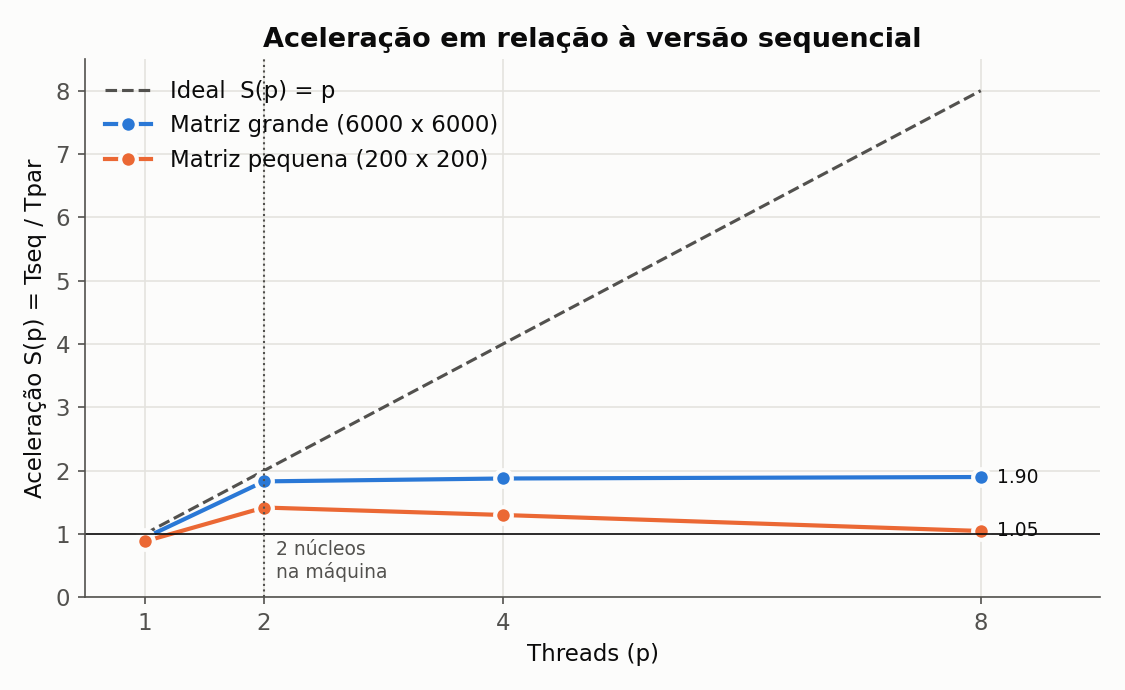
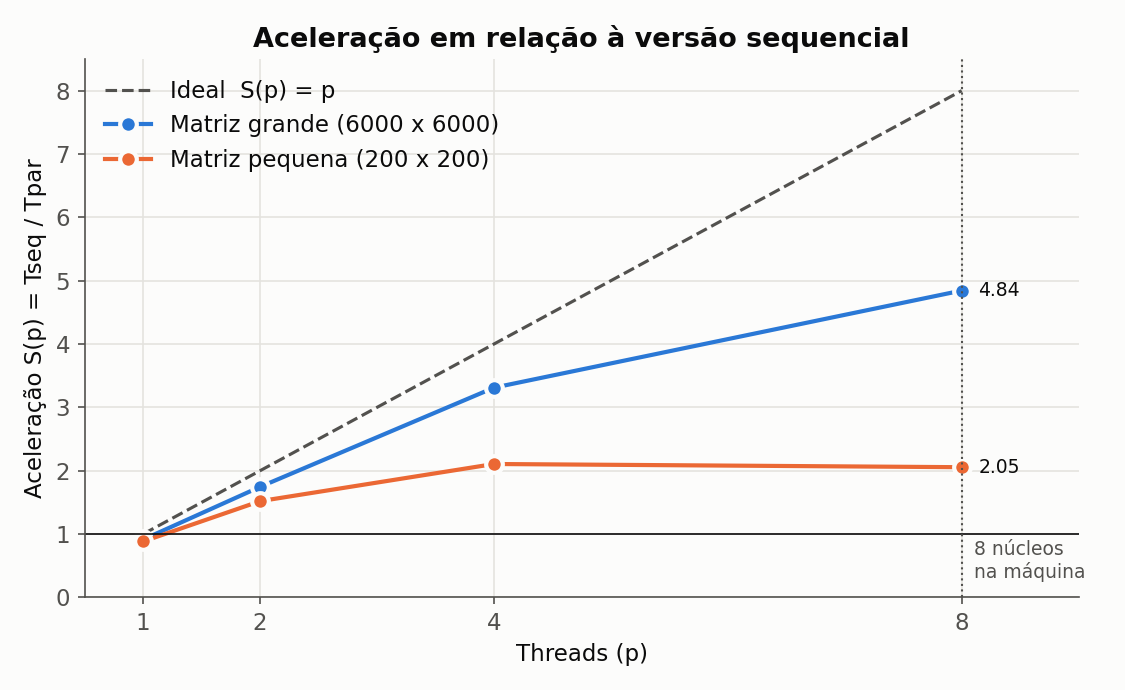
Medicoes no macOS (Apple M2) e relatorio atualizado

diff --git a/RELATORIO_TECNICO.md b/RELATORIO_TECNICO.md
@@ -18,12 +18,12 @@
 | Modalidade | [Individual / dupla] |
 | Turma | [PREENCHER] |
 | Estratégia paralela | Pthreads |
-| Plataforma testada | Linux (x86_64) |
+| Plataforma testada | macOS 26.3 (arm64, Apple M2) e Linux (x86_64) |
 | Commit avaliado | [`PREENCHER HASH_DO_COMMIT`] |
 
 ## Resumo
 
-Este trabalho conta os objetos de uma matriz binária, definidos como componentes conexos de células `1` sob conectividade 8. A versão sequencial percorre a matriz e, a cada célula `1` ainda não visitada, executa um *flood fill* iterativo com pilha explícita, evitando recursão profunda. A versão paralela usa Pthreads: a matriz é dividida em uma grade de blocos, distribuídos às threads por uma fila dinâmica protegida por mutex. Na primeira fase, cada thread rotula os componentes locais do bloco com um rótulo globalmente único (índice linear da semente + 1), sem coordenação. Na segunda fase, as threads examinam as fronteiras inferior e direita de cada bloco, incluindo diagonais, e registram as equivalências em uma estrutura *union-find* compartilhada, protegida por um segundo mutex. O total é a soma dos objetos locais menos o número de uniões efetivas. As duas versões produziram os resultados esperados nas cinco matrizes obrigatórias, em nove casos adicionais, em oito configurações paralelas e em 500 matrizes aleatórias comparadas com um oráculo independente (scipy). Em uma matriz 6000 × 6000, com 2 threads em máquina de 2 núcleos, a aceleração foi 1,83 (eficiência 0,92).
+Este trabalho conta os objetos de uma matriz binária, definidos como componentes conexos de células `1` sob conectividade 8. A versão sequencial percorre a matriz e, a cada célula `1` ainda não visitada, executa um *flood fill* iterativo com pilha explícita, evitando recursão profunda. A versão paralela usa Pthreads: a matriz é dividida em uma grade de blocos, distribuídos às threads por uma fila dinâmica protegida por mutex. Na primeira fase, cada thread rotula os componentes locais do bloco com um rótulo globalmente único (índice linear da semente + 1), sem coordenação. Na segunda fase, as threads examinam as fronteiras inferior e direita de cada bloco, incluindo diagonais, e registram as equivalências em uma estrutura *union-find* compartilhada, protegida por um segundo mutex. O total é a soma dos objetos locais menos o número de uniões efetivas. As duas versões produziram os resultados esperados nas cinco matrizes obrigatórias, em nove casos adicionais, em oito configurações paralelas e em 500 matrizes aleatórias comparadas com um oráculo independente (scipy). Em uma matriz 6000 × 6000, em um Apple M2 de 8 núcleos, a aceleração foi 1,74 com 2 threads, 3,31 com 4 e 4,84 com 8.
 
 **Palavras-chave:** sistemas operacionais; paralelismo; processos; threads; conectividade 8; flood fill; componentes conexos.
 
@@ -113,20 +113,22 @@ O projeto contém duas implementações funcionalmente equivalentes:
 
 ### 3.1 Hardware e software
 
+Ambiente das medições de desempenho (registrado em [`results/ambiente.txt`](results/ambiente.txt)):
+
 | Item | Especificação |
 |---|---|
-| Processador | Intel Xeon @ 2.10 GHz (máquina virtual) |
-| Núcleos físicos | 2 |
-| Processadores lógicos | 2 (1 thread por núcleo) |
-| Memória RAM | 7,8 GiB |
-| Sistema operacional | Linux 6.18 (Ubuntu 24.04) |
-| Arquitetura | x86_64 |
-| Compilador | gcc 13.3.0 (`cc`) |
+| Processador | Apple M2 (MacBook Air) |
+| Núcleos físicos | 8: 4 de desempenho (P) + 4 de eficiência (E) |
+| Processadores lógicos | 8 |
+| Memória RAM | 8 GiB |
+| Sistema operacional | macOS 26.3 (Darwin 25.3.0) |
+| Arquitetura | arm64 |
+| Compilador | Apple clang 17.0.0 (`cc`) |
 | Padrão da linguagem | C89/C90 |
 | APIs POSIX utilizadas | `pthread_create`, `pthread_join`, `pthread_mutex_init/lock/unlock/destroy`, `clock_gettime(CLOCK_MONOTONIC)` |
 | Flags de compilação | `-std=c89 -Wall -Wextra -pedantic -O2 -pthread` |
 
-> O código evita `pthread_barrier_t`, que não existe no macOS, e usa apenas APIs disponíveis nos dois sistemas. [PREENCHER: se testar também no macOS, registre aqui.]
+O projeto também foi compilado e testado em Linux (Ubuntu 24.04, x86_64, gcc 13.3.0), onde foram executadas as verificações com Valgrind (seção 10.2). O código evita `pthread_barrier_t`, que não existe no macOS, e usa apenas APIs disponíveis nos dois sistemas.
 
 ### 3.2 Compilação
 
@@ -283,7 +285,7 @@ flowchart LR
 
 ### 6.3 Paralelismo efetivo
 
-O cálculo pesado, o flood fill de todas as células, é feito **simultaneamente** pelas threads na fase 1, cada uma em blocos diferentes. As threads não esperam umas pelas outras nessa fase: a única interação é retirar o próximo bloco da fila, o que custa alguns nanossegundos por bloco. A fase 2 também é paralela: a varredura das fronteiras só lê dados e é feita sem trava. Só a aplicação das uniões é serializada, e seu custo é proporcional ao perímetro dos blocos, não à área. A evidência de paralelismo real é a aceleração de 1,83 com 2 threads na matriz grande (seção 9).
+O cálculo pesado, o flood fill de todas as células, é feito **simultaneamente** pelas threads na fase 1, cada uma em blocos diferentes. As threads não esperam umas pelas outras nessa fase: a única interação é retirar o próximo bloco da fila, o que custa alguns nanossegundos por bloco. A fase 2 também é paralela: a varredura das fronteiras só lê dados e é feita sem trava. Só a aplicação das uniões é serializada, e seu custo é proporcional ao perímetro dos blocos, não à área. A evidência de paralelismo real é a aceleração de 3,31 com 4 threads e de 4,84 com 8 threads na matriz grande (seção 9).
 
 | Etapa | Sequencial ou paralela? | Unidade responsável | Motivo |
 |---|---|---|---|
@@ -448,7 +450,7 @@ A **ordem** das uniões varia entre execuções (depende de qual thread chega pr
 | Repetições por configuração | 10, **intercaladas** (em cada rodada todas as configurações rodam uma vez), para que o ruído momentâneo da máquina afete todas de forma parecida |
 | Medida representativa | Mediana |
 | Critério para dispersão | Intervalo interquartil (IQR = Q3 − Q1); mínimo e máximo em `resumo.csv` |
-| Carga do sistema durante os testes | Máquina virtual dedicada, sem outras cargas do usuário. A VM apresentou ruído de até ±15 %, o que justificou a mediana. |
+| Carga do sistema durante os testes | Notebook ligado à tomada, com os demais aplicativos fechados. A dispersão foi baixa (IQR abaixo de 2 % da mediana na maioria das configurações). |
 | Flags de otimização | `-O2` |
 
 As medições brutas estão disponíveis em [`results/medicoes.csv`](results/medicoes.csv), e o resumo em [`results/resumo.csv`](results/resumo.csv). Para reproduzir: `make desempenho && make graficos`.
@@ -473,33 +475,43 @@ $$
 
 | Versão | Trabalhadores (`p`) | Tempo representativo (ms) | Dispersão - IQR (ms) | Aceleração `S(p)` | Eficiência `E(p)` | Resultado correto? |
 |---|---:|---:|---:|---:|---:|---|
-| Sequencial | 1 | 1365,3 | 25,4 | 1,00 | 1,00 | Sim |
-| Paralela | 1 | 1457,5 | 108,0 | 0,94 | 0,94 | Sim |
-| Paralela | 2 | 745,8 | 49,7 | **1,83** | **0,92** | Sim |
-| Paralela | 4 | 727,7 | 18,6 | 1,88 | 0,47 | Sim |
-| Paralela | 8 | 718,7 | 19,9 | 1,90 | 0,24 | Sim |
+| Sequencial | 1 | 728,4 | 3,1 | 1,00 | 1,00 | Sim |
+| Paralela | 1 | 797,5 | 2,6 | 0,91 | 0,91 | Sim |
+| Paralela | 2 | 417,4 | 4,6 | 1,74 | 0,87 | Sim |
+| Paralela | 4 | 220,0 | 1,4 | **3,31** | **0,83** | Sim |
+| Paralela | 8 | 150,4 | 7,3 | **4,84** | 0,61 | Sim |
 
 **Matriz pequena (200 × 200):**
 
 | Versão | Trabalhadores (`p`) | Tempo representativo (ms) | Dispersão - IQR (ms) | Aceleração `S(p)` | Eficiência `E(p)` | Resultado correto? |
 |---|---:|---:|---:|---:|---:|---|
-| Sequencial | 1 | 1,611 | 0,279 | 1,00 | 1,00 | Sim |
-| Paralela | 1 | 1,826 | 0,240 | 0,88 | 0,88 | Sim |
-| Paralela | 2 | 1,136 | 0,143 | 1,42 | 0,71 | Sim |
-| Paralela | 4 | 1,239 | 0,082 | 1,30 | 0,33 | Sim |
-| Paralela | 8 | 1,538 | 0,154 | 1,05 | 0,13 | Sim |
+| Sequencial | 1 | 0,900 | 0,016 | 1,00 | 1,00 | Sim |
+| Paralela | 1 | 1,020 | 0,028 | 0,88 | 0,88 | Sim |
+| Paralela | 2 | 0,593 | 0,008 | 1,52 | 0,76 | Sim |
+| Paralela | 4 | 0,427 | 0,013 | 2,11 | 0,53 | Sim |
+| Paralela | 8 | 0,438 | 0,040 | 2,05 | 0,26 | Sim |
 
 ### 9.4 Dados brutos das repetições
 
-Matriz grande (ms). As repetições da matriz pequena estão em `medicoes.csv`.
+**Matriz grande (6000 × 6000), tempos em ms:**
 
 | Versão | p | R1 | R2 | R3 | R4 | R5 | R6 | R7 | R8 | R9 | R10 | Mediana |
 |---|---:|---:|---:|---:|---:|---:|---:|---:|---:|---:|---:|---:|
-| Sequencial | 1 | 1369,2 | 1369,3 | 1445,0 | 1339,7 | 1378,3 | 1336,5 | 1355,6 | 1438,0 | 1349,0 | 1361,4 | 1365,3 |
-| Paralela | 1 | 1552,0 | 1431,4 | 1543,7 | 1470,9 | 1398,3 | 1489,0 | 1419,0 | 1657,1 | 1444,2 | 1392,5 | 1457,5 |
-| Paralela | 2 | 749,2 | 728,7 | 778,7 | 742,4 | 760,7 | 723,1 | 718,1 | 818,2 | 713,5 | 842,9 | 745,8 |
-| Paralela | 4 | 741,5 | 748,0 | 759,6 | 724,9 | 741,3 | 730,5 | 723,8 | 711,0 | 722,5 | 717,4 | 727,7 |
-| Paralela | 8 | 710,6 | 743,8 | 722,6 | 718,8 | 714,7 | 718,6 | 714,0 | 688,3 | 738,3 | 737,9 | 718,7 |
+| Sequencial | 1 | 724,1 | 728,5 | 727,1 | 725,1 | 725,6 | 728,4 | 730,8 | 728,7 | 729,2 | 730,8 | 728,4 |
+| Paralela | 1 | 790,5 | 797,8 | 804,2 | 797,5 | 797,4 | 805,9 | 794,6 | 792,5 | 797,5 | 797,8 | 797,5 |
+| Paralela | 2 | 417,8 | 412,6 | 422,6 | 417,1 | 421,4 | 415,3 | 415,4 | 438,9 | 417,4 | 417,4 | 417,4 |
+| Paralela | 4 | 221,2 | 219,6 | 220,6 | 224,3 | 229,0 | 220,2 | 219,6 | 218,5 | 219,8 | 219,8 | 220,0 |
+| Paralela | 8 | 153,6 | 173,2 | 151,8 | 154,0 | 145,1 | 147,5 | 161,7 | 144,8 | 149,0 | 146,2 | 150,4 |
+
+**Matriz pequena (200 × 200), tempos em ms:**
+
+| Versão | p | R1 | R2 | R3 | R4 | R5 | R6 | R7 | R8 | R9 | R10 | Mediana |
+|---|---:|---:|---:|---:|---:|---:|---:|---:|---:|---:|---:|---:|
+| Sequencial | 1 | 0,854 | 0,896 | 0,892 | 0,899 | 0,907 | 0,901 | 0,888 | 0,909 | 0,909 | 0,915 | 0,900 |
+| Paralela | 1 | 0,984 | 1,024 | 1,011 | 1,036 | 1,042 | 1,103 | 1,011 | 1,016 | 1,016 | 1,045 | 1,020 |
+| Paralela | 2 | 0,591 | 0,575 | 0,583 | 0,600 | 0,593 | 0,594 | 0,639 | 0,584 | 0,593 | 0,592 | 0,593 |
+| Paralela | 4 | 0,426 | 0,411 | 0,432 | 0,413 | 0,457 | 0,440 | 0,471 | 0,427 | 0,425 | 0,428 | 0,427 |
+| Paralela | 8 | 0,381 | 0,418 | 0,416 | 0,470 | 0,412 | 0,423 | 0,458 | 0,453 | 0,453 | 0,493 | 0,438 |
 
 ### 9.5 Gráfico de tempo de execução
 
@@ -511,7 +523,7 @@ Matriz grande (ms). As repetições da matriz pequena estão em `medicoes.csv`.
 
 ![Aceleração por quantidade de trabalhadores](results/grafico-aceleracao.png)
 
-**Figura 2 -** Aceleração observada em função da quantidade de trabalhadores. A linha ideal corresponde a `S(p) = p`; a linha pontilhada marca os 2 núcleos da máquina. Fonte: elaborado pelo grupo.
+**Figura 2 -** Aceleração observada em função da quantidade de trabalhadores. A linha ideal corresponde a `S(p) = p`; a linha pontilhada marca os 8 núcleos da máquina (4 de desempenho e 4 de eficiência). Fonte: elaborado pelo grupo.
 
 ### 9.7 Gráfico de eficiência
 
@@ -521,9 +533,9 @@ Matriz grande (ms). As repetições da matriz pequena estão em `medicoes.csv`.
 
 ### 9.8 Análise dos resultados
 
-**Ganho em relação à versão sequencial.** Na matriz grande, 2 threads reduziram o tempo de 1365 ms para 746 ms (S = 1,83; E = 0,92), perto do ideal para a máquina de 2 núcleos. Isso confirma que a fase 1, que domina o custo, é executada de fato em paralelo.
+**Ganho em relação à versão sequencial.** Na matriz grande, o tempo caiu de 728 ms (sequencial) para 417 ms com 2 threads, 220 ms com 4 e 150 ms com 8. As acelerações foram 1,74, 3,31 e 4,84. O tempo diminui a cada aumento de threads, o que confirma que a fase 1, que domina o custo, é executada de fato em paralelo.
 
-**Por que a versão paralela com 1 thread é 7 % mais lenta que a sequencial (S = 0,94).** Ela faz mais trabalho que a sequencial:
+**Por que a versão paralela com 1 thread é 9 % mais lenta que a sequencial (S = 0,91).** Ela faz mais trabalho que a sequencial:
 
 - usa `int rotulo[]` (4 bytes/célula, 144 MB) em vez de `unsigned char visitado[]` (1 byte/célula, 36 MB), o que quadruplica o tráfego de memória;
 - aloca `pai[]` (mais 144 MB), cujas páginas causam *page faults* na primeira escrita;
@@ -532,15 +544,15 @@ Matriz grande (ms). As repetições da matriz pequena estão em `medicoes.csv`.
 
 Essa sobrecarga é o custo de tornar o problema decomponível. A comparação com a versão sequencial otimizada é a mais honesta, e é a usada no cálculo de `S(p)`.
 
-**Por que S(2) = 1,83 e não 2.** Além da sobrecarga acima, a alocação e o preenchimento de 288 MB geram *page faults* tratados pelo kernel, que serializa parte desse trabalho. Os dois núcleos também disputam a mesma largura de banda de memória, e a fase 2 contém uma região crítica serializada. O IQR da configuração com 1 thread (108 ms) mostra que a própria VM varia bastante.
+**Escalabilidade até 4 threads.** A eficiência cai pouco: 0,91 com 1 thread, 0,87 com 2 e 0,83 com 4. Quase toda a distância para o ideal já está presente com 1 thread, ou seja, vem da sobrecarga fixa do algoritmo paralelo, e não de contenção entre threads. Comparando a versão paralela consigo mesma, de 1 para 4 threads o tempo cai 3,62 vezes (797,5 / 220,0), perto de 4. Isso é coerente com o projeto: a fase 1 não usa nenhuma trava nos dados, e a única região crítica frequente é a retirada de um bloco da fila. O que impede o ganho ideal é a parte que não se divide: os *page faults* da alocação de 288 MB, tratados pelo kernel, a disputa dos núcleos pela mesma largura de banda de memória e a região crítica do union-find.
 
-**Efeito da quantidade de threads (4 e 8).** A máquina tem **apenas 2 núcleos**. Com 4 ou 8 threads não há mais hardware para executá-las ao mesmo tempo: o SO as intercala nos mesmos 2 núcleos. Por isso a aceleração estabiliza em ≈ 1,9 e a eficiência cai para 0,47 e 0,24. Isso não é defeito do algoritmo: a eficiência é calculada sobre `p` threads, mas só havia 2 unidades físicas. O tempo não piorou, e chegou até a melhorar levemente (746 → 719 ms), por dois motivos: criar threads é barato, e mais threads significam mais blocos (padrão `2p × 2`), o que melhora o balanceamento dinâmico. [PREENCHER se possível: repetir `make desempenho` em uma máquina com 4+ núcleos para mostrar a escalabilidade além de 2 threads.]
+**Por que S(8) = 4,84 e não 8.** O Apple M2 tem núcleos heterogêneos: 4 de desempenho (P) e 4 de eficiência (E), estes mais lentos. Com 4 threads, o sistema operacional pode manter todas nos núcleos P. Com 8, metade das threads roda em núcleos E, de modo que a capacidade total de cálculo fica bem abaixo de "8 núcleos P". A eficiência de 0,61 reflete essa limitação do hardware, e não uma falha do algoritmo. Ainda assim os núcleos E contribuem: o tempo caiu de 220 ms para 150 ms. Aqui a **fila dinâmica** é importante. Com uma divisão estática (um bloco fixo por thread), o tempo total seria ditado pelas threads nos núcleos lentos. Com a fila e 32 blocos (grade padrão `2p × 2`), os núcleos rápidos simplesmente retiram mais blocos, e o trabalho se ajusta à velocidade de cada núcleo. A configuração com 8 threads também teve a maior dispersão (IQR de 7,3 ms), compatível com a variação de quais threads o sistema coloca em cada tipo de núcleo.
 
-**Matriz pequena.** Com 200 × 200 (40 mil células), a contagem inteira leva ~1,6 ms. Mesmo assim, 2 threads ainda ganham (S = 1,42), mas com 8 threads o ganho quase desaparece (S = 1,05). Cada execução com 8 threads cria e espera 16 threads (2 fases × 8), cada uma custando dezenas de microssegundos, e esse custo fixo passa a competir com um cálculo muito curto. Como alerta o enunciado, matrizes pequenas servem para validar correção, não para medir ganho.
+**Matriz pequena.** Com 200 × 200 (40 mil células), a contagem sequencial leva 0,9 ms. A versão paralela ainda ganha com 2 threads (S = 1,52) e com 4 (S = 2,11), mas com 8 não há ganho adicional (S = 2,05; 0,438 ms contra 0,427 ms). Cada execução com 8 threads cria e espera 16 threads (2 fases × 8), e esse custo fixo passa a competir com um cálculo de menos de meio milissegundo. A eficiência cai para 0,26. Como alerta o enunciado, matrizes pequenas servem para validar correção, não para medir ganho.
 
-**Custo da consolidação.** A fase 2 trabalha só sobre as fronteiras: com uma grade `BL × BC`, examina cerca de `(BL−1)·C + (BC−1)·L` células, frente às `L·C` da fase 1. Para 6000 × 6000 com 2 threads (grade 4 × 2), são ~24 mil células de fronteira contra 36 milhões no total (< 0,1 %). Travar o mutex uma vez por bloco, e não por par, mantém a contenção desprezível.
+**Custo da consolidação.** A fase 2 trabalha só sobre as fronteiras: com uma grade `BL × BC`, examina cerca de `(BL−1)·C + (BC−1)·L` células, frente às `L·C` da fase 1. Para 6000 × 6000 com 8 threads (grade 16 × 2), são cerca de 96 mil células de fronteira contra 36 milhões no total (menos de 0,3 %). Travar o mutex uma vez por bloco, e não por par, mantém a contenção desprezível.
 
-**Trechos que permanecem sequenciais.** Geração/leitura da matriz (fora da medição), montagem da grade (O(blocos)), a região crítica do union-find e a fase 3 (O(blocos)).
+**Trechos que permanecem sequenciais.** Geração/leitura da matriz (fora da medição), alocação das estruturas, montagem da grade (O(blocos)), a região crítica do union-find e a fase 3 (O(blocos)).
 
 ## 10. Tratamento de erros e qualidade do código
 
@@ -563,12 +575,12 @@ Observação: as funções `pthread_*` não usam `errno`; retornam o código de 
 
 | Verificação | Comando/ferramenta | Resultado |
 |---|---|---|
-| Compilação C89/C90 | `make OPT="-O2 -Werror"` | Sem erros |
+| Compilação C89/C90 | `make` (clang no macOS, gcc no Linux); `make OPT="-O2 -Werror"` no Linux | Sem erros |
 | Avisos do compilador | `-Wall -Wextra -pedantic` | Nenhum aviso |
-| Vazamentos de memória | Valgrind memcheck (`--leak-check=full`), ambas as versões | "All heap blocks were freed -- no leaks are possible"; 0 erros |
-| Condições de corrida | ThreadSanitizer (`-fsanitize=thread`): 5 obrigatórias + 800 × 800 com 8 threads e 16 × 16 blocos. Valgrind Helgrind: 200 × 200, 4 threads | 0 avisos (TSan); 0 erros (Helgrind) |
+| Vazamentos de memória | Valgrind memcheck (`--leak-check=full`), ambas as versões, em Linux (o Valgrind não está disponível para macOS em arm64) | "All heap blocks were freed -- no leaks are possible"; 0 erros |
+| Condições de corrida | ThreadSanitizer (`-fsanitize=thread`), em macOS (clang) e Linux (gcc): 800 × 800 com 8 threads e 16 × 16 blocos; no Linux também as 5 obrigatórias. Valgrind Helgrind (Linux): 200 × 200, 4 threads | 0 avisos (TSan); 0 erros (Helgrind) |
 
-Detalhes em [`results/verificacoes-qualidade.log`](results/verificacoes-qualidade.log).
+Detalhes das verificações feitas em Linux em [`results/verificacoes-qualidade.log`](results/verificacoes-qualidade.log).
 
 Durante o desenvolvimento, o AddressSanitizer revelou um erro: vizinhos de fundo (rótulo 0) eram registrados como equivalências, e o union-find acessava `pai[0]`, nunca inicializado. A correção foi ignorar pares com rótulo 0 em `registrar_par`.
 
@@ -590,15 +602,15 @@ Durante o desenvolvimento, o AddressSanitizer revelou um erro: vizinhos de fundo
 | Union-find com um mutex global | Uniões serializadas | Mutex por raiz ou operações atômicas (*compare-and-swap*) | O custo da fase 2 é proporcional ao perímetro dos blocos (< 0,1 % das células); operações atômicas não fazem parte do C89. |
 | `pthread_join` como barreira (threads recriadas por fase) | ~dezenas de µs a mais por fase | `pthread_barrier_t`, ou barreira com mutex + variável de condição | `pthread_barrier_t` não existe no macOS. O `join` é simples, portável e seu custo é desprezível na matriz grande. |
 | Grade padrão `2p × 2` | Mais blocos que threads, com mais fronteiras | 1 bloco por thread (faixas) | Balanceamento dinâmico sem aumentar muito o perímetro. Configurável com `-b`. |
-| Medições em máquina de 2 núcleos | Não mostra escalabilidade além de 2 | — | Único ambiente disponível no momento das medições. [PREENCHER se medir em outra máquina.] |
+| Medições em processador com núcleos heterogêneos (4 P + 4 E) | A aceleração com 8 threads não pode ser comparada diretamente com o ideal `S(p) = p` | Medir em máquina com 8 núcleos iguais | Hardware disponível ao grupo; a análise (seção 9.8) considera essa característica. |
 
 ## 12. Conclusão
 
 Os objetivos foram alcançados. As versões sequencial e paralela contam corretamente objetos com conectividade 8, produzindo os valores esperados nas cinco matrizes obrigatórias, em nove casos adicionais, em oito configurações de threads e blocos, em 280 repetições de determinismo e em 500 matrizes aleatórias comparadas com uma implementação independente. ThreadSanitizer, Helgrind e Valgrind não apontaram condições de corrida nem erros de memória.
 
-No desempenho, a versão paralela obteve aceleração de 1,83 com 2 threads na matriz 6000 × 6000 (eficiência 0,92), próximo do ideal para os 2 núcleos disponíveis. Com mais threads que núcleos, a aceleração estabiliza em ≈ 1,9, como esperado. Na matriz 200 × 200, o custo fixo de criar threads quase anula o ganho com 8 threads, o que ilustra por que matrizes pequenas não servem para avaliar desempenho.
+No desempenho, na matriz 6000 × 6000 em um Apple M2, a versão paralela obteve aceleração de 1,74 com 2 threads, 3,31 com 4 (eficiência 0,83) e 4,84 com 8. A queda de eficiência com 8 threads se explica pelos núcleos de eficiência do processador, mais lentos que os de desempenho. Na matriz 200 × 200, passar de 4 para 8 threads não trouxe ganho, porque o custo fixo de criar threads compete com um cálculo de menos de um milissegundo, o que ilustra por que matrizes pequenas não servem para avaliar desempenho.
 
-O principal aprendizado é que paralelizar exige tornar o problema decomponível. O flood fill paralelo em si é simples; o essencial está em (1) escolher rótulos que não colidem sem comunicação, (2) restringir as escritas de cada thread à sua região, para dispensar travas no caminho mais custoso, e (3) concentrar a sincronização em uma etapa pequena, a consolidação das fronteiras. Uma melhoria futura realista seria compactar os rótulos após a fase 1, reduzindo o vetor `pai[]` ao número de componentes locais, e medir o programa em uma máquina com mais núcleos.
+O principal aprendizado é que paralelizar exige tornar o problema decomponível. O flood fill paralelo em si é simples; o essencial está em (1) escolher rótulos que não colidem sem comunicação, (2) restringir as escritas de cada thread à sua região, para dispensar travas no caminho mais custoso, e (3) concentrar a sincronização em uma etapa pequena, a consolidação das fronteiras. Uma melhoria futura realista seria compactar os rótulos após a fase 1, reduzindo o vetor `pai[]` ao número de componentes locais, o que diminuiria a memória e a sobrecarga observada com 1 thread.
 
 ## 13. Vídeo de apresentação
 
@@ -696,8 +708,8 @@ O código C não usa bibliotecas externas além da biblioteca padrão e de Pthre
 ## Apêndice A - Registro de comandos
 
 ```bash
-# Informações do ambiente
-uname -srm; lscpu; free -h; cc --version     # salvo em results/ambiente.txt
+# Informações do ambiente (gravadas em results/ambiente.txt por mede-desempenho.sh)
+uname -srm; sysctl -n machdep.cpu.brand_string hw.physicalcpu hw.logicalcpu; sw_vers; cc --version
 
 # Compilação
 make clean && make
@@ -710,6 +722,8 @@ python3 tests/validacao-aleatoria.py 500      # -> results/validacao-aleatoria.l
 
 # Verificações de qualidade
 cc -std=c89 -g -O1 -fsanitize=thread -pthread src/conta-objetos-paralelo.c src/comum.c -o par-tsan
+./par-tsan -t 8 -b 16 16 -g 800 800 0.45 11
+# As duas verificacoes abaixo foram feitas em Linux:
 valgrind --leak-check=full ./conta-objetos-paralelo -t 4 -b 4 4 -g 300 300 0.45 5
 valgrind --tool=helgrind ./conta-objetos-paralelo -t 4 -b 4 4 -g 200 200 0.45 5
 
@@ -724,9 +738,11 @@ make graficos                                 # -> results/resumo.csv, results/*
 
 ```csv
 matriz,linhas,colunas,versao,trabalhadores,repeticao,tempo_ms,objetos,resultado_correto
-grande,6000,6000,sequencial,1,1,1369.209,263877,true
-grande,6000,6000,paralela,1,1,1552.033,263877,true
-grande,6000,6000,paralela,2,1,749.151,263877,true
+grande,6000,6000,sequencial,1,1,724.088,263877,true
+grande,6000,6000,paralela,1,1,790.452,263877,true
+grande,6000,6000,paralela,2,1,417.753,263877,true
+grande,6000,6000,paralela,4,1,221.180,263877,true
+grande,6000,6000,paralela,8,1,153.612,263877,true
 ```
 
 ## Apêndice C - Correspondência com os critérios de avaliação

diff --git a/README.md b/README.md
@@ -19,7 +19,7 @@ O relatório completo está em [`RELATORIO_TECNICO.md`](RELATORIO_TECNICO.md).
 
 ## Compilação
 
-Requer um compilador C (gcc ou clang) e um sistema POSIX (Linux ou macOS).
+Requer um compilador C (gcc ou clang) e um sistema POSIX. Testado em macOS 26.3 (Apple clang 17) e em Linux (gcc 13).
 
 ```bash
 make            # compila as duas versões (-std=c89 -Wall -Wextra -pedantic -O2)
@@ -86,7 +86,7 @@ Resultados obtidos (detalhes no relatório):
 | 4 | 9 × 12 | 6 | 6 | 6 |
 | 5 | 12 × 12 | 7 | 7 | 7 |
 
-Matriz 6000 × 6000 (densidade 0,45), mediana de 10 execuções em máquina de 2 núcleos: sequencial 1365 ms; paralela com 2 threads 746 ms (**aceleração 1,83**).
+Matriz 6000 × 6000 (densidade 0,45), mediana de 10 execuções em um Apple M2 (4 núcleos de desempenho + 4 de eficiência): sequencial 728 ms; paralela com 4 threads 220 ms (**aceleração 3,31**) e com 8 threads 150 ms (**aceleração 4,84**).
 
 ## Arquitetura
 
